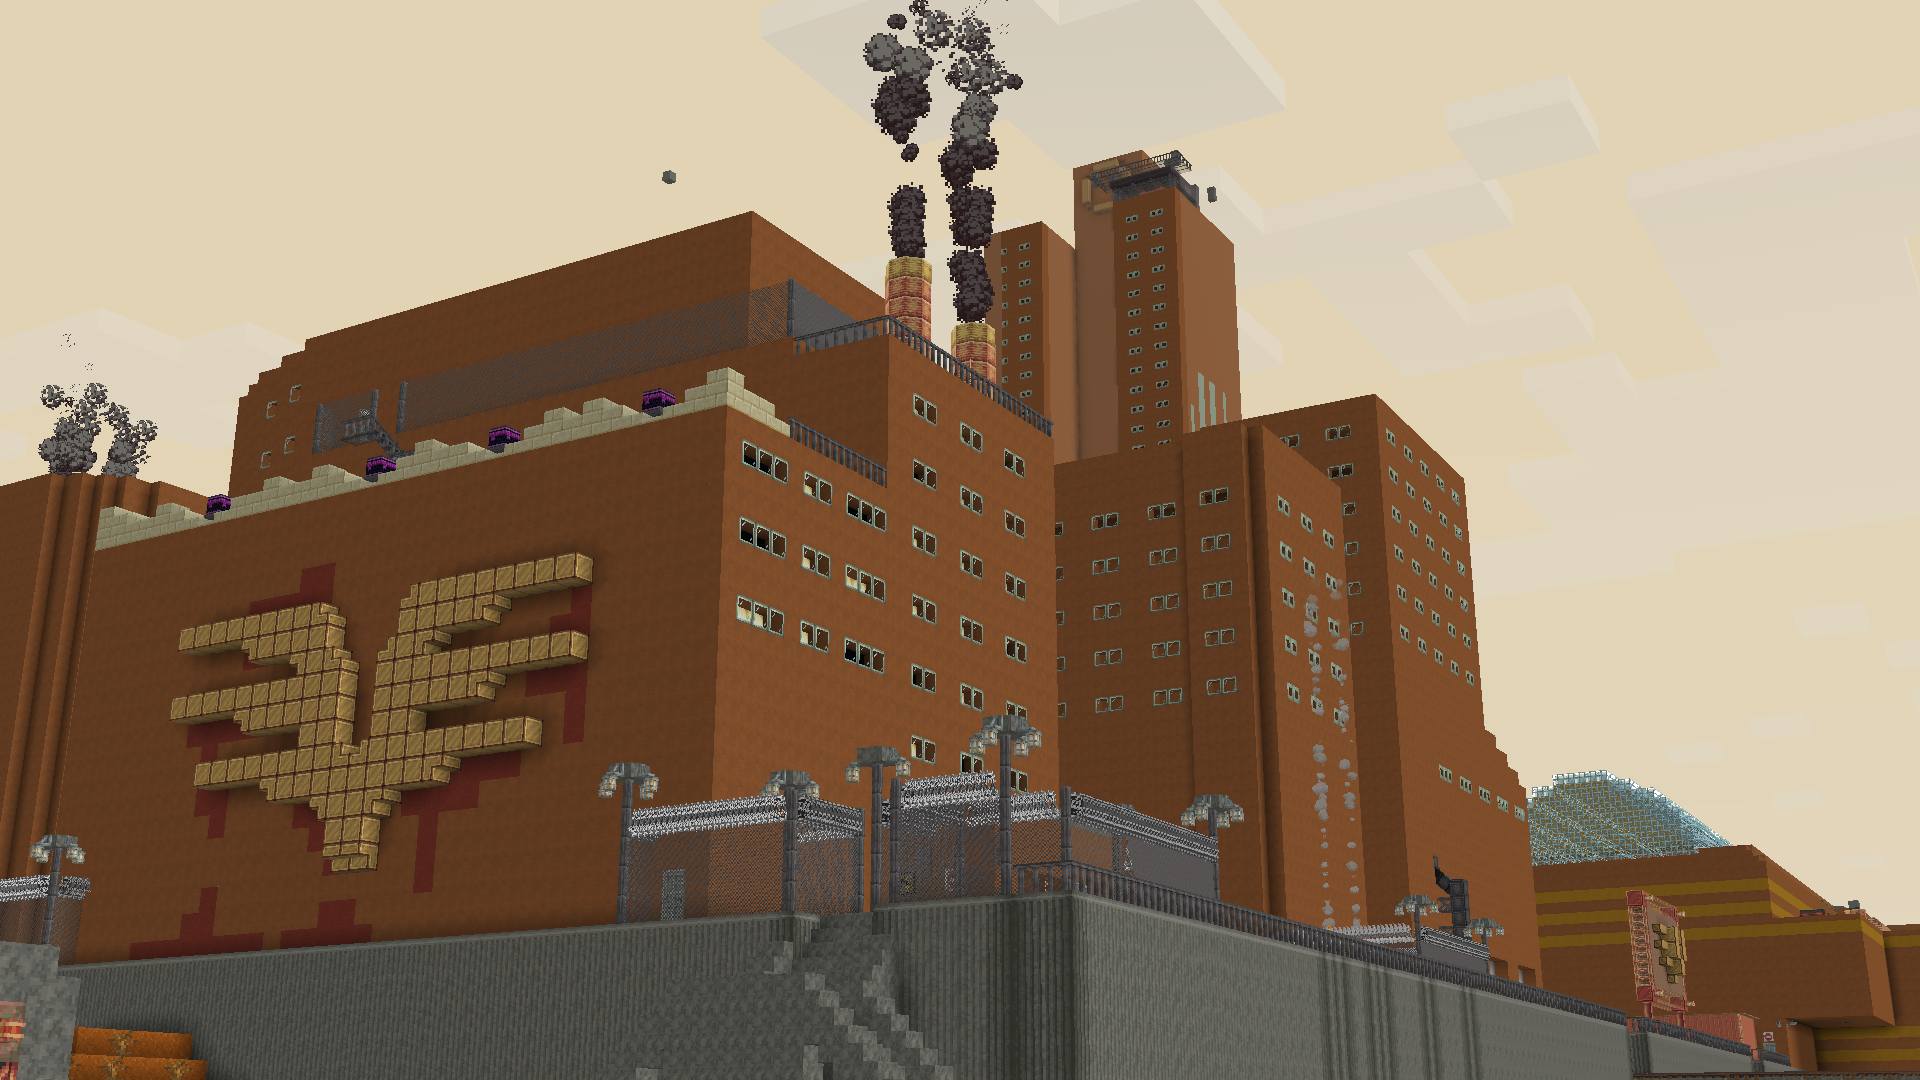
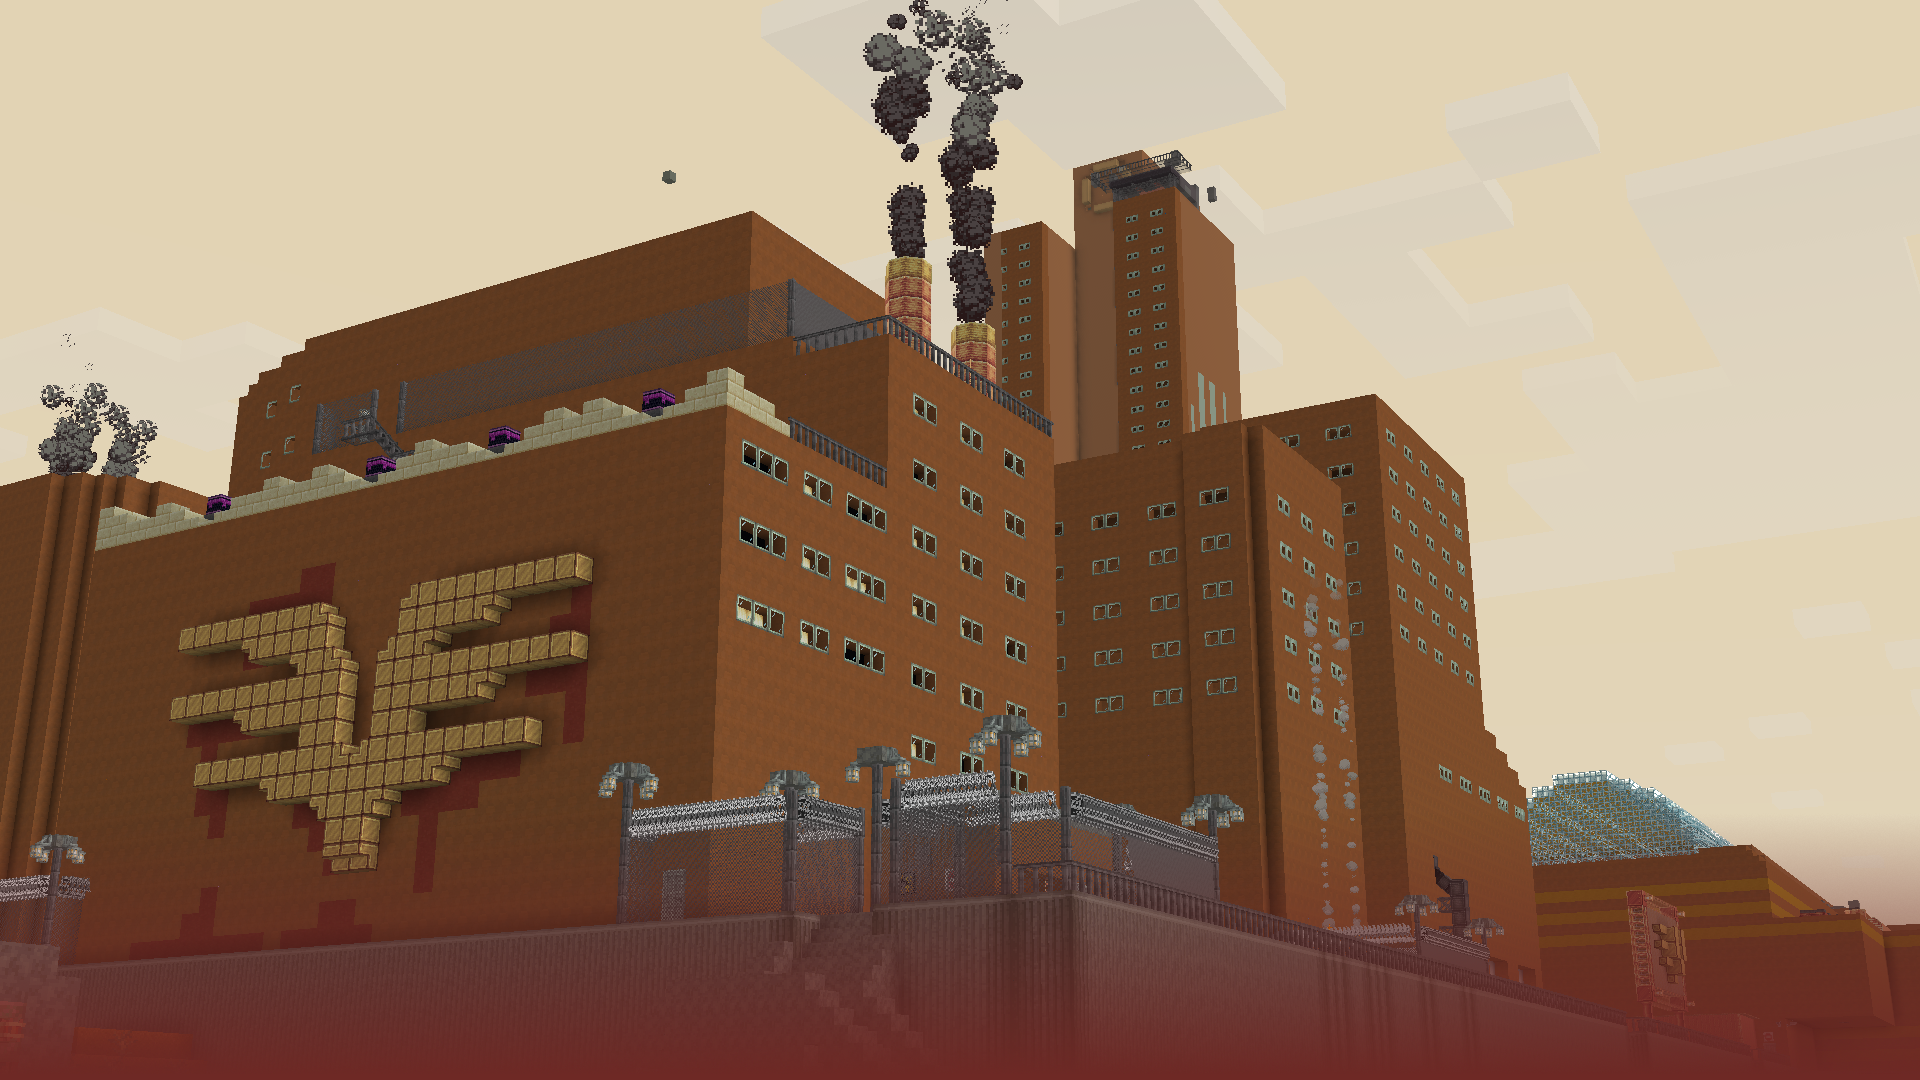
fixed home page

Changed region(s): [[0.0, 0.7639, 1.0, 1.0], [0.0, 0.7944, 0.0312, 0.825]]

diff --git a/components/navbar.js b/components/navbar.js
@@ -6,16 +6,17 @@ export default function Navbar() {
 //<Image className='drop-shadow-vanguard-shadow mt-5' alt={'Vanguard Nav Logo'} src={'/images/vanguard-v.png'} width='256' height='256'></Image>
 
     return(
-        <div>
-            <Image className='fixed z-0' alt={'Vanguard 45 Logo'} src={'/images/vanguard-45-2.png'} width='150' height='150'></Image>
-            <div className='z-1'>
+        <div className='sticky top-0 bg-[#E2D3B4] drop-shadow-xl'>
+            <Image className='fixed z-99' alt={'Vanguard 45 Logo'} src={'/images/vanguard-45-2.png'} width='150' height='150'></Image>
+            <div className='z-98'>
                 <div className='w-96 h-8 bg-[#fec633] -rotate-45'/>
                 <div className='drop-shadow-vanguard-shadow w-auto h-8 ml-40 bg-[#fec633]'/>
                 <div className='flex flex-row justify-left align-middle drop-shadow-vanguard-shadow w-auto h-8 my-5 ml-28 p-1 bg-[#fec633]'>
                     <ul className='list-none ml-10'>
                         <li className="text-xl font-(vanguardFont) drop-shadow-xl inline mx-5"><Link href={{pathname:'/'}}>Home</Link></li>
-                        <li className="text-xl font-(vanguardFont) drop-shadow-xl inline mx-5"><Link href={{pathname:'/'}}>About</Link></li>
                         <li className="text-xl font-(vanguardFont) drop-shadow-xl inline mx-5"><Link href={{pathname:'/'}}>Travel</Link></li>
+                        <li className="text-xl font-(vanguardFont) drop-shadow-xl inline mx-5"><Link href={{pathname:'/'}}>Maps</Link></li>
+                        <li className="text-xl font-(vanguardFont) drop-shadow-xl inline mx-5"><Link href={{pathname:'/'}}>Cards</Link></li>
                     </ul>
                 </div>
                 <div className='drop-shadow-vanguard-shadow w-auto h-8 bg-[#fec633]'/>

diff --git a/app/beta/soon.js b/app/beta/soon.js
@@ -5,10 +5,11 @@ function Soon() {
 
     return (
         <div className='flex flex-col justify-center items-center'>
-            <div style={{width: '50%', height: '50%'}}>
-                <Image className='drop-shadow-vanguard-shadow mr-20' alt={'Vanguard Alt Logo'} src={'/images/vanguard-cyber.png'} width='512' height='512'></Image>
+            <div>
+                <Image className='drop-shadow-vanguard-shadow' alt={'Vanguard Alt Logo'} src={'/images/vanguard-cyber.png'} width='512' height='512'></Image>
             </div>
-            <h1 className="text-3xl font-(vanguardFont) drop-shadow-xl">We'll be with you soon.</h1>
+            <h1 className="text-3xl font-(vanguardFont) drop-shadow-xl mb-10">We'll be with you soon.</h1>
+            <p className="text-sm font-(vanguardFont) drop-shadow-xl mb-10">© Copyright Vanguard Extraction Solutions 2025</p>
         </div>
     );
 }

diff --git a/app/page.js b/app/page.js
@@ -8,10 +8,16 @@ export default function Home() {
     return (
       <main>
         <Navbar/>
-        <Image className='drop-shadow-xl mr-20' alt={'Vanguard City'} src={'/images/vanguard-city.png'} width='2500' height='2500' style={{ width: '100%', height: 'auto' }}></Image>
-        <Soon/>
+        <Image className='mr-20 -z-10 relative' alt={'Vanguard City'} src={'/images/vanguard-city.png'} width='2500' height='2500' style={{ width: '100%', height: 'auto' }}/>
+
+        <div style={{ width: '100%', height: '100%', position: 'relative'}}>
+          <Soon/>
+        </div>
+
+        
       </main>
     );
   }
 
 
+ // bg-gradient-to-b from-transparent via-transparent to-pink-500

diff --git a/app/globals.css b/app/globals.css
@@ -3,13 +3,13 @@
 @tailwind utilities;
 
 :root {
-  --background: #f5ebdc;
+  --background: #6e2925;
   --foreground: #171717;
 }
 
 @media (prefers-color-scheme: dark) {
   :root {
-    --background: #f0f0f0;
+    --background: #6e2925;
     --foreground: #171717;
   }
 }
